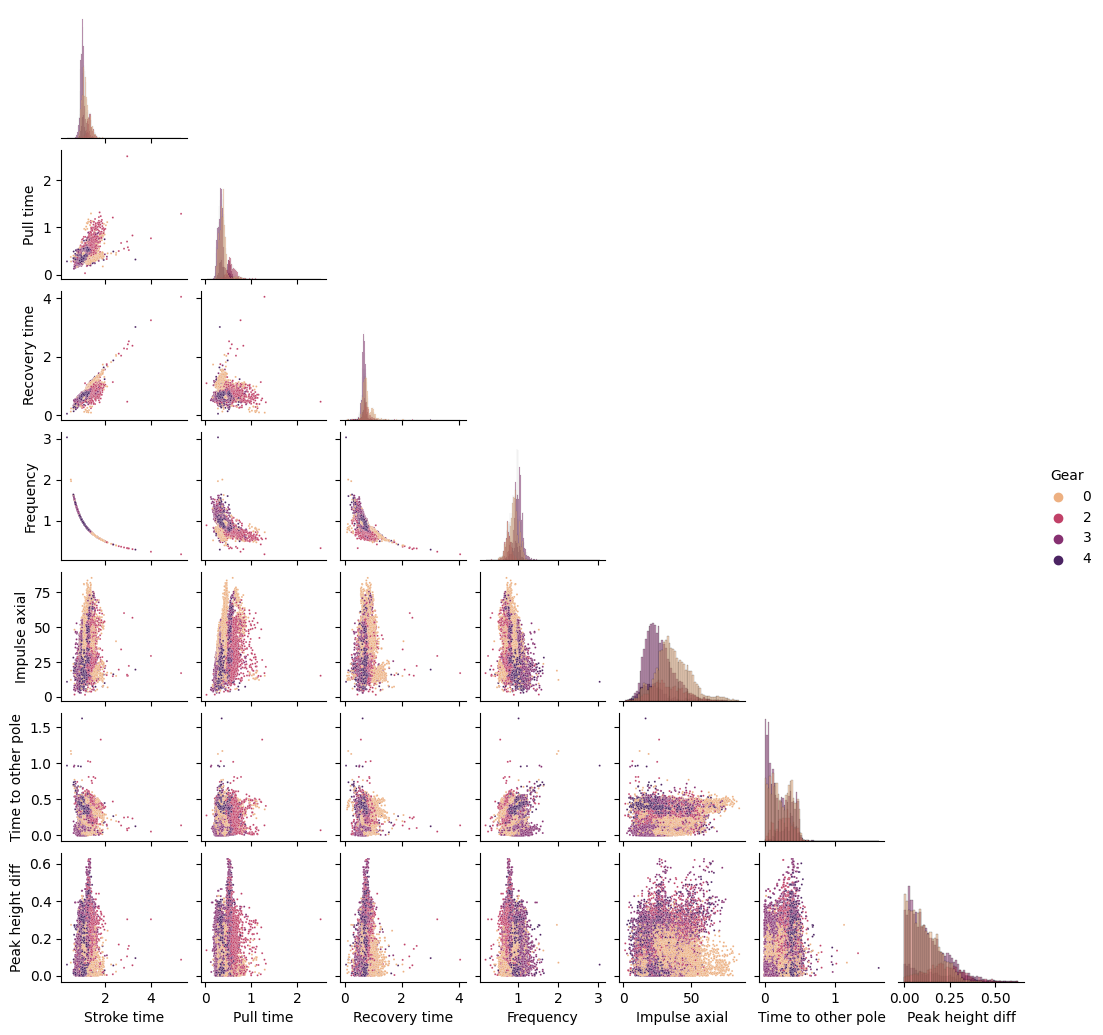
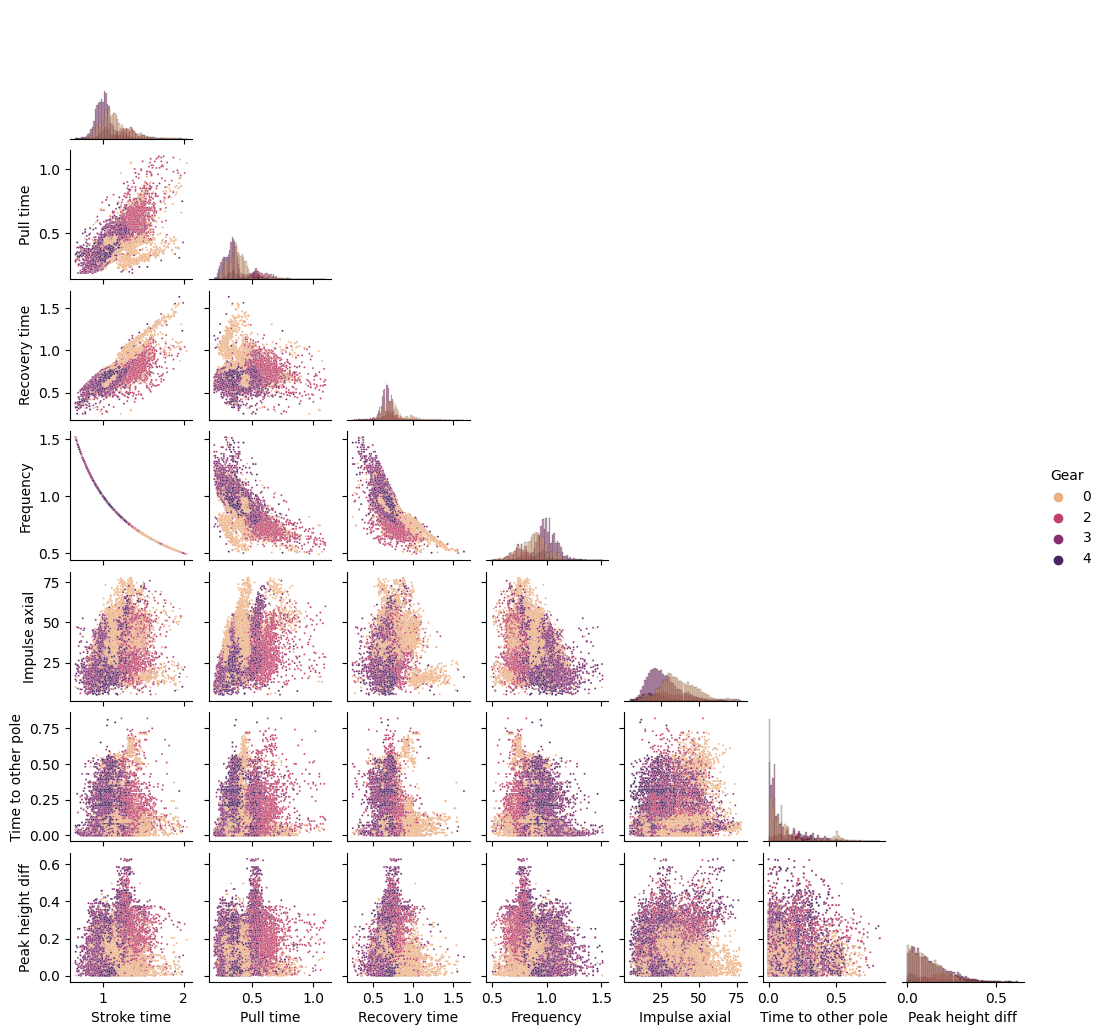
Added compensation for microcontroller drift

diff --git a/functions/dataframe_functions.py b/functions/dataframe_functions.py
@@ -61,63 +61,6 @@ def get_dataframe(filepath_list, skier_list):
     return df, df_peaks, df_info
 
 
-def get_dataframe_with_shift(filepath_list, skier_list):
-    """The main function to call to generate all dataframes
-    Parameters
-    ----------
-    filepath_list : list of strings
-        A list of the filepath for the CSV files for the source files
-    skier_list : list of ints
-        A list of the indentity of the different skiers.
-
-    Returns
-    -------
-    df : dataframe
-        Dataframe over the timeseries data
-    df_peaks : dataframe
-        Dataframe over the stroke information on a timeseries basis
-    df_info : dataframe
-        Dataframe over individual pulling, the dataframe for doing
-        machine learning since it doesn't contain any timeseries information
-    """
-    for j in range(len(skier_list)):
-        i = skier_list[j]
-        filepath = filepath_list[j]
-        # If it's the first call we save to variables without append, else with
-        # append
-        if i == skier_list[0]:
-            # Calling the generate_stroke_dataframe to get all of the data
-            dataframe_dict = generate_stroke_dataframe_with_shift(filepath, i)
-            # Saving the data to variables
-            df = dataframe_dict["df"]
-            df_peaks = dataframe_dict["df_peaks_left"]
-            df_peaks = df_peaks.append(
-                dataframe_dict["df_peaks_right"], ignore_index=True
-            )
-            df_info = dataframe_dict["df_info_left"]
-            df_info = df_info.append(
-                dataframe_dict["df_info_right"], ignore_index=True
-            )
-        else:
-            # Calling generate_stroke_dataframe for the rest of the skiers
-            dataframe_dict = generate_stroke_dataframe_with_shift(filepath, i)
-            # Appending the data to variables
-            df = df.append(dataframe_dict["df"], ignore_index=True)
-            df_peaks = df_peaks.append(
-                dataframe_dict["df_peaks_left"], ignore_index=True
-            )
-            df_peaks = df_peaks.append(
-                dataframe_dict["df_peaks_right"], ignore_index=True
-            )
-            df_info = df_info.append(
-                dataframe_dict["df_info_left"], ignore_index=True
-            )
-            df_info = df_info.append(
-                dataframe_dict["df_info_right"], ignore_index=True
-            )
-    return df, df_peaks, df_info
-
-
 def generate_stroke_dataframe(filepath, i):
     """ Function to call when getting data from one skier
     Parameters
@@ -148,53 +91,37 @@ def generate_stroke_dataframe(filepath, i):
     df_peaks_right = GetStrokes(df, "Right")
     df_info_left = GetInfo(df_peaks_left)
     df_info_right = GetInfo(df_peaks_right)
+    # Adding the time between nearest left and right pulling
+    df_info_left, df_info_right = add_left_and_right_diff(
+        df_peaks_left, df_peaks_right, df_info_left, df_info_right
+    )
+    left_0 = df_peaks_left[df_peaks_left["Gear"] == 0][10:90]
+    left_0 = left_0["Peak time"].values
+    right_0 = df_info_left[df_info_left["Gear"] == 0][10:90]
+    right_0 = right_0["Other pole time"].values
+    x = left_0
+    y = left_0 - right_0
+    k, m = np.polyfit(x, y, 1)
+    time = df["Time (sec)"].values
+    comp = k * np.linspace(np.min(time), np.max(time), len(time)) + m
+    time = time - comp
+    df["Force right (N)"] = np.interp(
+        time, df["Time (sec)"], df["Force right (N)"], left=0, right=0
+    )
+    df["Time (sec)"] = time
+    df["Time (min)"] = time / 60
+
+    df_peaks_left = GetStrokes(df, "Left")
+    df_peaks_right = GetStrokes(df, "Right")
+
+    df_info_left = GetInfo(df_peaks_left)
+    df_info_right = GetInfo(df_peaks_right)
 
     # Adding the time between nearest left and right pulling
     df_info_left, df_info_right = add_left_and_right_diff(
         df_peaks_left, df_peaks_right, df_info_left, df_info_right
     )
     # Saving it all to a dictionary
-    dataframe_dict = {
-        "df": df,
-        "df_peaks_left": df_peaks_left,
-        "df_peaks_right": df_peaks_right,
-        "df_info_left": df_info_left,
-        "df_info_right": df_info_right,
-    }
-    return dataframe_dict
-
-
-def generate_stroke_dataframe_with_shift(filepath, i):
-    """
-    Parameters
-    ----------
-    test : type
-        desc
-
-    Returns
-    -------
-    test : type
-        desc
-    """
-    df = ImportData(filepath, i)
-
-    df["Time (sec)"] = np.linspace(
-        np.min(df["Time (sec)"]), np.max(df["Time (sec)"]), len(df.index)
-    )
-    df["Time (min)"] = np.linspace(
-        np.min(df["Time (min)"]), np.max(df["Time (min)"]), len(df.index)
-    )
-
-    int_add = np.sum(df["Time (sec)"].values <= 12)
-    df["Gear"] = df["Gear"].shift(periods=int_add, fill_value=df["Gear"][0])
-
-    df_peaks_left = GetStrokes(df, "Left")
-    df_peaks_right = GetStrokes(df, "Right")
-    df_info_left = GetInfo(df_peaks_left)
-    df_info_right = GetInfo(df_peaks_right)
-    df_info_left, df_info_right = add_left_and_right_diff(
-        df_peaks_left, df_peaks_right, df_info_left, df_info_right
-    )
     dataframe_dict = {
         "df": df,
         "df_peaks_left": df_peaks_left,
@@ -426,13 +353,21 @@ def add_left_and_right_diff(
     times_left, indices_left = nbrs_right.kneighbors(
         np.transpose([df_peaks_left["Peak time"].values])
     )
-    # Converting to a proventage
-    df_info_left["Time to other pole"] = (
-        np.transpose(times_left)[0] / df_info_left["Stroke time"].values
-    )
-    df_info_right["Time to other pole"] = (
-        np.transpose(times_right)[0] / df_info_right["Stroke time"].values
-    )
+    # Save to dataframe
+    df_info_left["Time to other pole"] = np.transpose(times_left)[
+        0
+    ]  # / df_info_left["Stroke time"].values
+    df_info_right["Time to other pole"] = np.transpose(times_right)[
+        0
+    ]  # / df_info_right["Stroke time"].values
+
+    df_info_left["Other pole time"] = df_info_right.loc[
+        indices_left.flatten(), "Peak time"
+    ].values
+    df_info_right["Other pole time"] = df_info_left.loc[
+        indices_right.flatten(), "Peak time"
+    ].values
+
     # Saving the height of the peak to a variable from dataframe
     height_left = df_peaks_left["Peak height"].reset_index(drop=True)
     height_right = df_peaks_right["Peak height"].reset_index(drop=True)

diff --git a/gridplot.py b/gridplot.py
@@ -2,6 +2,9 @@ import pandas as pd
 import holoviews as hv
 from holoviews import opts
 from holoviews.operation import gridmatrix
+import seaborn as sns
+from functions.dataframe_functions import delete_outlier
+
 hv.extension("bokeh")
 
 
@@ -19,8 +22,8 @@ df_sub = df_info[
         "Peak height diff",
     ]
 ]
-if len(df_sub.index) > 7000:
-    df_sub = df_sub.sample(7000)
+# if len(df_sub.index) > 7000:
+#    df_sub = df_sub.sample(7000)
 ds = hv.Dataset(df_sub).groupby("Gear").overlay()
 point_grid = gridmatrix(ds, chart_type=hv.Points)
 point_grid.opts(opts.Points(size=1, alpha=0.3, cmap="Plasma"))
@@ -33,4 +36,15 @@ legend = point_grid[("Frequency", "Time to other pole")].opts(
 )
 # legend = point_grid[("Frequency", "Impulse axial")].opts(
 # legend.opts(opts.Points(size=0, alpha=1))
-hv.save(point_grid + legend, "figures/Points.html")
+# hv.save(point_grid + legend, "figures/Points.html")
+df_sub = delete_outlier(df_sub)
+sns_plot = sns.pairplot(
+    df_sub,
+    hue="Gear",
+    diag_kind="hist",
+    corner=True,
+    palette="flare",
+    plot_kws={"s": 2},
+    height=1.5,
+)
+sns_plot.savefig("figures/Gait_analysis.png")

diff --git a/main.py b/main.py
@@ -1,14 +1,12 @@
-from functions.dataframe_functions import get_dataframe
+import pandas as pd
 from functions.plotting_functions import timeseries_per_skier
 import holoviews as hv
+
 hv.extension("bokeh")
 
-path_first = "../matlab_report-master/Treadmill/Test/Torsby/"
-skier_list = [1, 2, 3, 4, 5, 6, 7, 8, 9, 10]
-path_second = "/CSV/csvData.csv"
-filepath_list = [path_first + str(i) + path_second for i in skier_list]
 
-df, df_peaks, _ = get_dataframe(filepath_list, skier_list)
+df = pd.read_pickle("./data/timeseries.pkl")
+df_peaks = pd.read_pickle("./data/peaks.pkl")
 
-plot = timeseries_per_skier(df, df_peaks[df_peaks["Pole"] == 1])
+plot = timeseries_per_skier(df, df_peaks[df_peaks["Pole"] == "Right"])
 hv.save(plot, "figures/Timeseries.html")

diff --git a/functions/plotting_functions.py b/functions/plotting_functions.py
@@ -2,6 +2,17 @@ import holoviews as hv
 
 
 def timeseries_per_skier(df, df_peaks):
+    """
+    Parameters
+    ----------
+    test : type
+        desc
+
+    Returns
+    -------
+    test : type
+        desc
+    """
     force_time = hv.Table(
         df,
         ["Skier"],
@@ -20,7 +31,7 @@ def timeseries_per_skier(df, df_peaks):
             "Height stop",
             "Ground contact stop",
             "Stroke stop",
-            "Force area",
+            "Impulse axial",
         ],
     )
     scatter_peaks = peaks.to.scatter("Peak time", "Peak height").opts(
